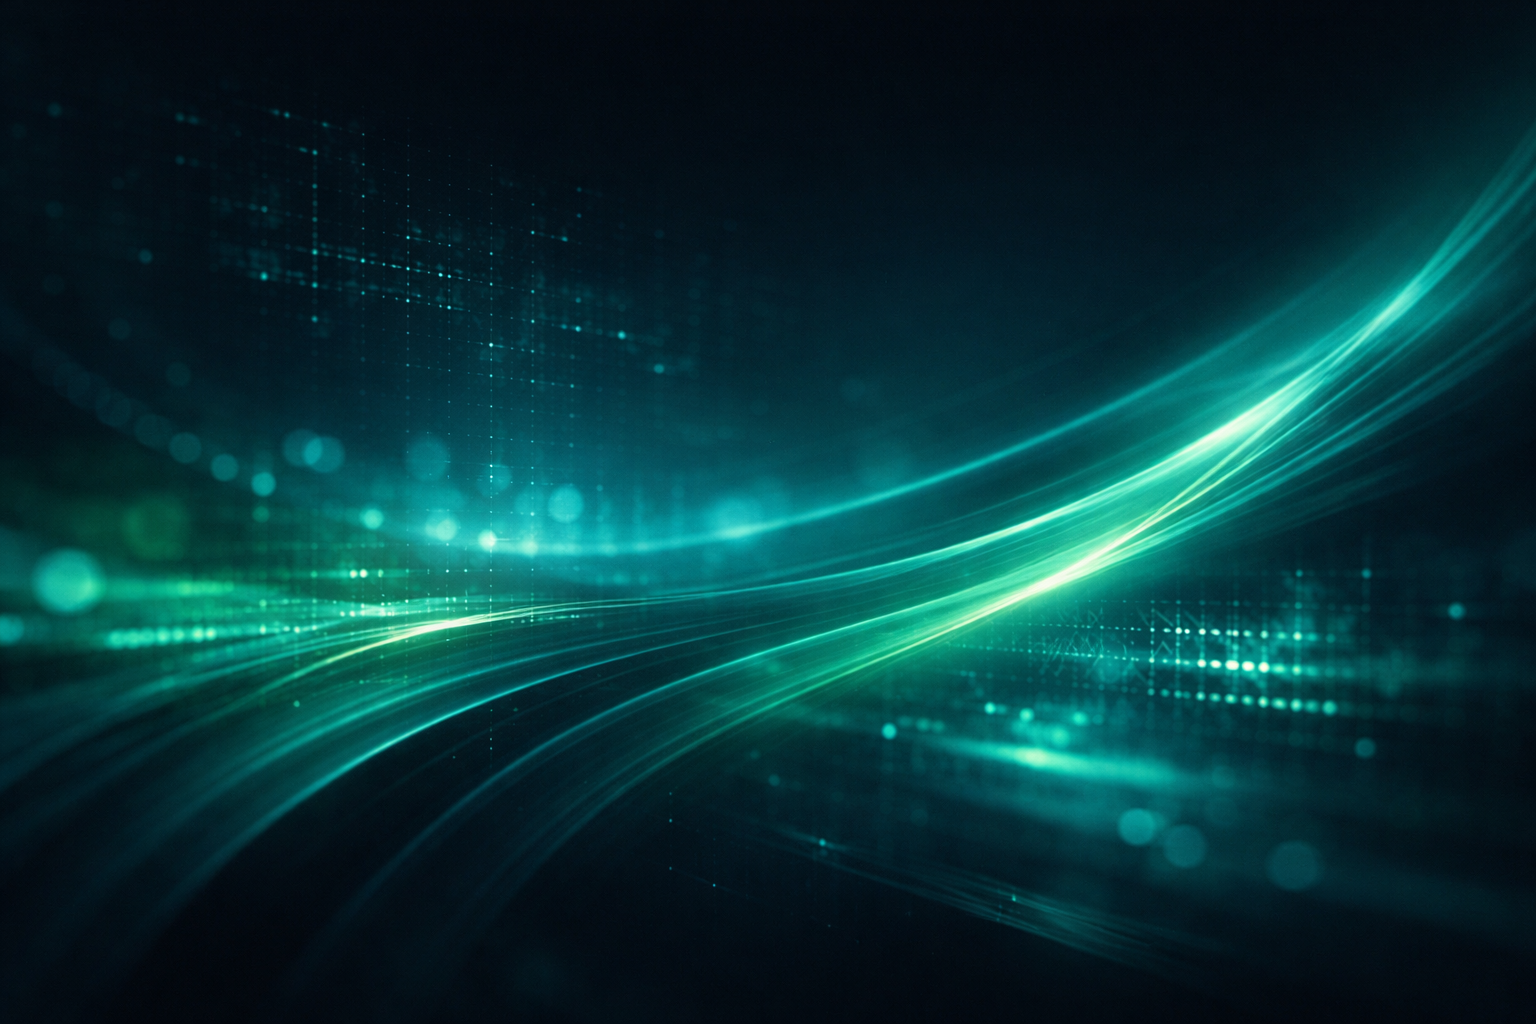
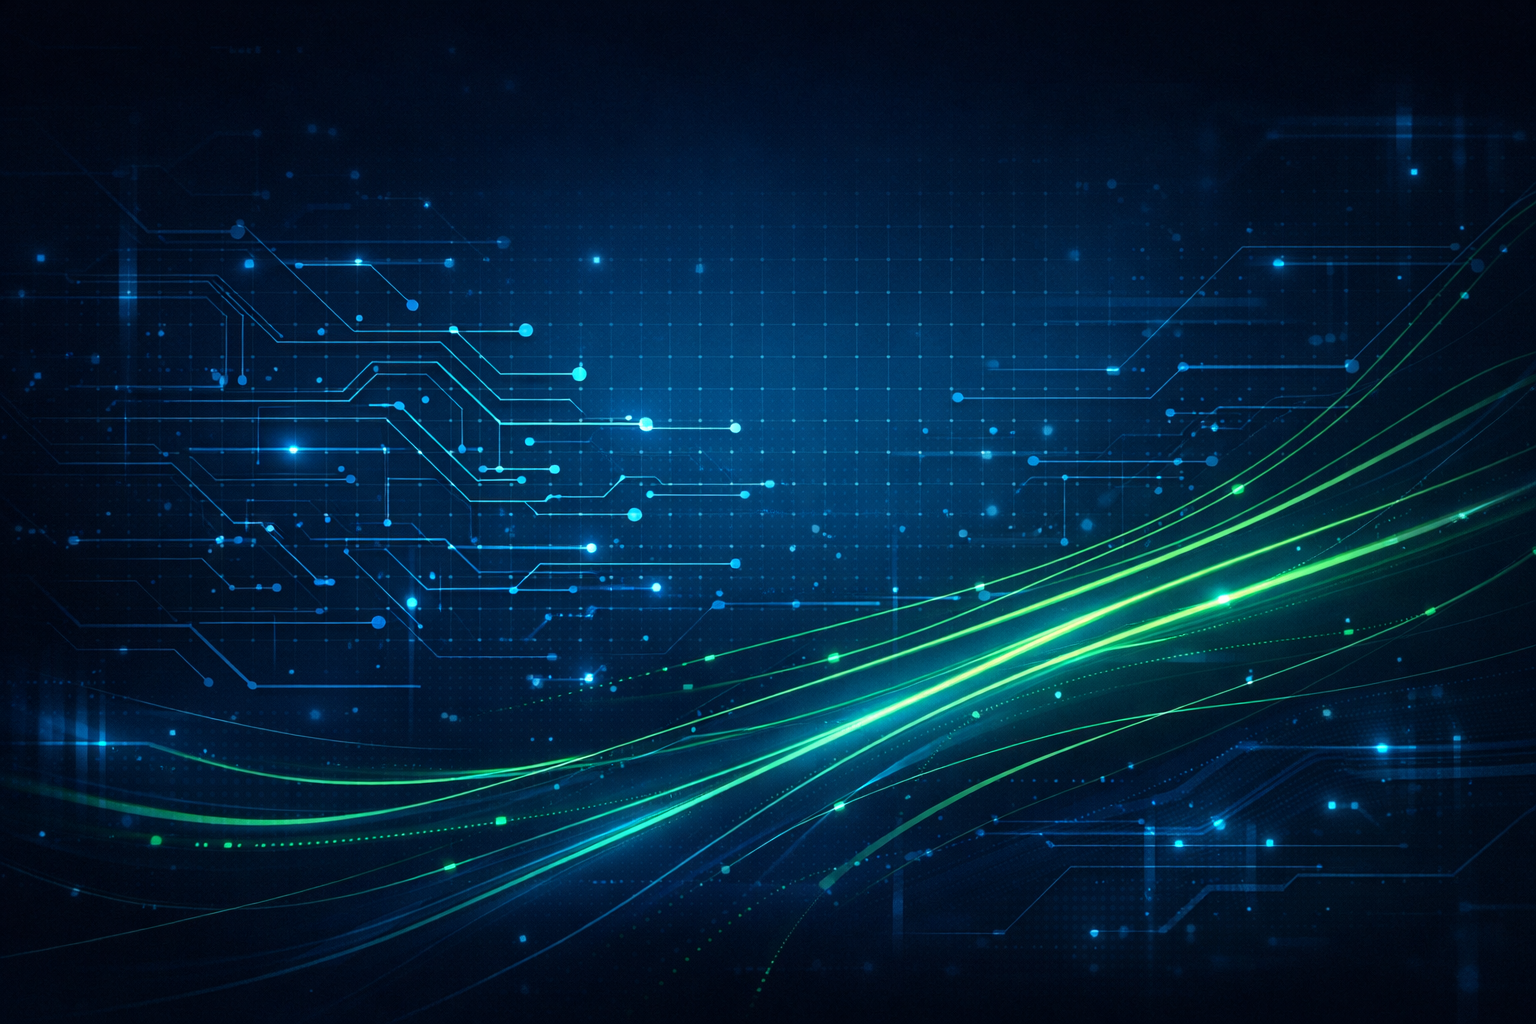
Redesign landing page: law enforcement tech aesthetic with new hero background, advanced bullet points, tagline 'Don't second guess', and login button

diff --git a/app.py b/app.py
@@ -243,7 +243,11 @@ def show_landing_page():
                      padding-right: 4%; /* reduce side padding to allow more of the background to show */
                  }}
             .tagline {{
-                font-size: 3rem;
+                /* Use the accent colour for the main tagline to create a strong
+                   visual focal point.  Increase the font size slightly for
+                   greater impact on the hero page. */
+                color: {ACCENT_COLOR};
+                font-size: 3.5rem;
                 font-weight: 700;
                 line-height: 1.2;
                 margin-bottom: 1rem;
@@ -252,6 +256,29 @@ def show_landing_page():
                 font-size: 1.3rem;
                 line-height: 1.4;
                 max-width: 600px;
+            }}
+            /* Feature list styling for hero bullets */
+            .feature-list {{
+                margin-top: 1.5rem;
+            }}
+            .feature-list ul {{
+                list-style: none;
+                padding-left: 0;
+                margin: 0;
+            }}
+            .feature-list li {{
+                margin-bottom: 0.7rem;
+                font-size: 1.1rem;
+                line-height: 1.3;
+                position: relative;
+                padding-left: 1.6rem;
+            }}
+            .feature-list li::before {{
+                content: "\2714"; /* checkmark bullet */
+                position: absolute;
+                left: 0;
+                color: {ACCENT_COLOR};
+                font-size: 1.1rem;
             }}
                 /* Style the login button on the main hero page similar to the original design:
                    small button with a white border and white text, positioned next to the logo. */
@@ -283,6 +310,13 @@ def show_landing_page():
             <div class="hero-overlay">
                 <div class="tagline">Don't second guess</div>
                 <div class="subtagline">Experience the leading AI‑powered system for behavioural and nervousness detection.</div>
+                <div class="feature-list">
+                    <ul>
+                        <li>AI‑driven facial and body landmark analysis</li>
+                        <li>Real‑time quantification of stress and nervousness</li>
+                        <li>Secure analytics tailored for law‑enforcement professionals</li>
+                    </ul>
+                </div>
             </div>
         </div>
         """,
